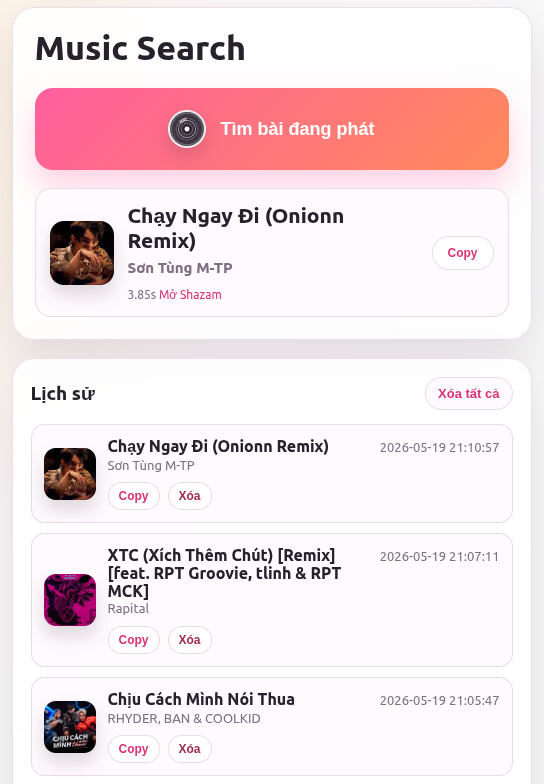
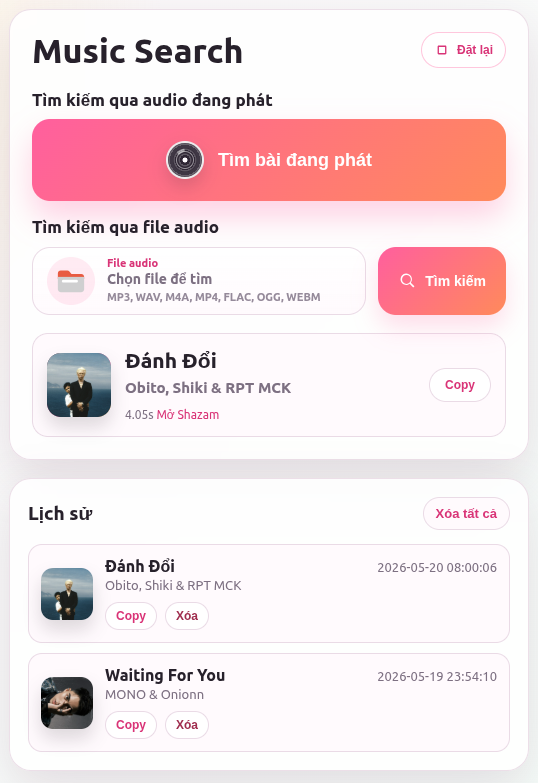
cleanup for audio validation flow

diff --git a/web/app.js b/web/app.js
@@ -18,8 +18,7 @@ const historyEl = document.querySelector("#history");
 const clearButton = document.querySelector("#clearButton");
 
 const PREVIEW_SECONDS = 10;
-const MIN_SELECTION_SECONDS = 3;
-const MIN_UPLOAD_SECONDS = 3;
+const MIN_AUDIO_SECONDS = 3;
 const MAX_UPLOAD_BYTES = 50 * 1024 * 1024;
 const ALLOWED_UPLOAD_EXTENSIONS = new Set(["mp3", "wav", "m4a", "mp4", "flac", "ogg", "webm"]);
 const ALLOWED_UPLOAD_TYPES = new Set([
@@ -38,6 +37,15 @@ const ALLOWED_UPLOAD_TYPES = new Set([
   "video/webm",
   "application/ogg",
 ]);
+const ERROR_MESSAGES = {
+  no_audio_playing: "Không có audio đang phát. Mở nhạc hoặc video rồi thử lại.",
+  recognition_busy: "Đang có lượt nhận diện khác chạy. Chờ lượt hiện tại kết thúc rồi thử lại.",
+  file_too_large: "File audio quá lớn, tối đa 50MB.",
+  unsupported_upload_type: "Chỉ hỗ trợ file MP3, WAV, M4A, MP4, FLAC, OGG hoặc WEBM.",
+  unsupported_audio_file: "Định dạng file không đọc được. Thử file MP3, WAV, M4A, MP4, FLAC, OGG hoặc WEBM.",
+  audio_too_short: "File audio quá ngắn. Cần tối thiểu 3 giây để nhận diện.",
+  no_audio_stream: "Không tìm thấy audio trong file.",
+};
 const INITIAL_RESULT_HTML = `<p class="muted">Bấm nút để nghe audio hệ thống, hoặc chọn file audio để nhận diện.</p>`;
 const PLAY_ICON_PATH = "M8 5.8c0-.8.9-1.3 1.6-.9l8.2 5.2c.7.4.7 1.4 0 1.8l-8.2 5.2c-.7.4-1.6-.1-1.6-.9V5.8Z";
 const STOP_ICON_PATH = "M7.2 6.2c0-.7.5-1.2 1.2-1.2h1.8c.7 0 1.2.5 1.2 1.2v11.6c0 .7-.5 1.2-1.2 1.2H8.4c-.7 0-1.2-.5-1.2-1.2V6.2Zm5.4 0c0-.7.5-1.2 1.2-1.2h1.8c.7 0 1.2.5 1.2 1.2v11.6c0 .7-.5 1.2-1.2 1.2h-1.8c-.7 0-1.2-.5-1.2-1.2V6.2Z";
@@ -50,7 +58,6 @@ let selectionEnd = PREVIEW_SECONDS;
 let waveformPeaks = [];
 let activeWaveformDrag = "";
 let playbackFrame = 0;
-let selectedFileError = null;
 
 function escapeHtml(value) {
   return String(value ?? "")
@@ -65,25 +72,11 @@ function userErrorMessage(error) {
   const message = String(error?.error || error?.message || error || "");
   const code = String(error?.code || "");
   const lowered = message.toLowerCase();
-  if (code === "no_audio_playing") {
-    return "Không có audio đang phát. Mở nhạc hoặc video rồi thử lại.";
+
+  if (ERROR_MESSAGES[code]) {
+    return message || ERROR_MESSAGES[code];
   }
-  if (code === "recognition_busy") {
-    return "Đang có lượt nhận diện khác chạy. Chờ lượt hiện tại kết thúc rồi thử lại.";
-  }
-  if (code === "file_too_large") {
-    return "File audio quá lớn, tối đa 50MB.";
-  }
-  if (code === "unsupported_upload_type") {
-    return "Chỉ hỗ trợ file MP3, WAV, M4A, MP4, FLAC, OGG hoặc WEBM.";
-  }
-  if (code === "unsupported_audio_file") {
-    return "Định dạng file không đọc được. Thử file MP3, WAV, M4A, MP4, FLAC, OGG hoặc WEBM.";
-  }
-  if (code === "audio_too_short") {
-    return "File audio quá ngắn. Cần tối thiểu 3 giây để nhận diện.";
-  }
-  if (code === "no_audio_stream" || lowered.includes("does not contain any stream")) {
+  if (lowered.includes("does not contain any stream")) {
     return "Không tìm thấy audio trong file.";
   }
   if (lowered.includes("invalid data found when processing input")) {
@@ -175,7 +168,7 @@ function selectedStartSeconds() {
 }
 
 function selectedEndSeconds() {
-  return Math.max(selectedStartSeconds() + MIN_SELECTION_SECONDS, selectionEnd);
+  return Math.max(selectedStartSeconds() + MIN_AUDIO_SECONDS, selectionEnd);
 }
 
 function updatePreviewRangeText() {
@@ -218,7 +211,6 @@ function resetPreview() {
   selectionStart = 0;
   selectionEnd = PREVIEW_SECONDS;
   waveformPeaks = [];
-  selectedFileError = null;
   updatePreviewRangeText();
   drawWaveform();
   filePreview.classList.add("is-hidden");
@@ -233,11 +225,10 @@ function resetSelectedFile() {
 }
 
 function rejectSelectedFile(error) {
-  resetPreview();
   audioFile.value = "";
+  resetPreview();
   fileName.textContent = "Chọn file để tìm";
   previewReset.classList.add("is-hidden");
-  selectedFileError = error;
   renderResult({ ok: false, ...error });
 }
 
@@ -247,9 +238,9 @@ function loadFilePreview(file) {
     return;
   }
 
-  selectedFileError = validateSelectedFile(file);
-  if (selectedFileError) {
-    rejectSelectedFile(selectedFileError);
+  const fileError = validateSelectedFile(file);
+  if (fileError) {
+    rejectSelectedFile(fileError);
     return;
   }
 
@@ -265,9 +256,9 @@ function loadFilePreview(file) {
 }
 
 function clampSelection() {
-  const duration = Math.max(MIN_SELECTION_SECONDS, previewDuration || PREVIEW_SECONDS);
-  selectionStart = Math.max(0, Math.min(selectionStart, duration - MIN_SELECTION_SECONDS));
-  selectionEnd = Math.max(selectionStart + MIN_SELECTION_SECONDS, Math.min(selectionEnd, duration));
+  const duration = Math.max(MIN_AUDIO_SECONDS, previewDuration || PREVIEW_SECONDS);
+  selectionStart = Math.max(0, Math.min(selectionStart, duration - MIN_AUDIO_SECONDS));
+  selectionEnd = Math.max(selectionStart + MIN_AUDIO_SECONDS, Math.min(selectionEnd, duration));
 }
 
 function clampPlayhead() {
@@ -295,9 +286,9 @@ function canvasPointToSeconds(event) {
 function setSelectionFromPointer(event) {
   const seconds = canvasPointToSeconds(event);
   if (activeWaveformDrag === "start") {
-    selectionStart = Math.min(seconds, selectionEnd - MIN_SELECTION_SECONDS);
+    selectionStart = Math.min(seconds, selectionEnd - MIN_AUDIO_SECONDS);
   } else if (activeWaveformDrag === "end") {
-    selectionEnd = Math.max(seconds, selectionStart + MIN_SELECTION_SECONDS);
+    selectionEnd = Math.max(seconds, selectionStart + MIN_AUDIO_SECONDS);
   } else if (activeWaveformDrag === "move") {
     const width = selectionEnd - selectionStart;
     selectionStart = seconds - width / 2;
@@ -393,7 +384,7 @@ async function analyzeWaveform(file) {
     const audioBuffer = await context.decodeAudioData(buffer);
     previewDuration = audioBuffer.duration || previewDuration;
     selectionStart = 0;
-    selectionEnd = Math.min(PREVIEW_SECONDS, Math.max(MIN_SELECTION_SECONDS, previewDuration));
+    selectionEnd = Math.min(PREVIEW_SECONDS, Math.max(MIN_AUDIO_SECONDS, previewDuration));
 
     const data = audioBuffer.getChannelData(0);
     const peakCount = 180;
@@ -612,13 +603,13 @@ async function recognize() {
 async function recognizeFile() {
   const file = audioFile.files?.[0];
   if (!file) {
-    resultEl.innerHTML = `<p class="muted">Chọn một file audio trước khi nhận diện.</p>`;
+    renderWarning("Chọn một file audio trước khi nhận diện.");
     return;
   }
 
-  selectedFileError = selectedFileError || validateSelectedFile(file);
-  if (selectedFileError) {
-    renderResult({ ok: false, ...selectedFileError });
+  const fileError = validateSelectedFile(file);
+  if (fileError) {
+    rejectSelectedFile(fileError);
     return;
   }
 
@@ -659,7 +650,7 @@ audioFile.addEventListener("change", () => {
 previewAudio.addEventListener("loadedmetadata", () => {
   const duration = Number.isFinite(previewAudio.duration) ? previewAudio.duration : 0;
   previewDuration = duration || previewDuration;
-  if (duration > 0 && duration < MIN_UPLOAD_SECONDS) {
+  if (duration > 0 && duration < MIN_AUDIO_SECONDS) {
     rejectSelectedFile({
       code: "audio_too_short",
       error: "File audio quá ngắn. Cần tối thiểu 3 giây để nhận diện.",
@@ -667,14 +658,14 @@ previewAudio.addEventListener("loadedmetadata", () => {
     return;
   }
   selectionStart = 0;
-  selectionEnd = Math.min(PREVIEW_SECONDS, Math.max(MIN_SELECTION_SECONDS, previewDuration || PREVIEW_SECONDS));
+  selectionEnd = Math.min(PREVIEW_SECONDS, Math.max(MIN_AUDIO_SECONDS, previewDuration || PREVIEW_SECONDS));
   clampSelection();
   previewAudio.currentTime = selectionStart;
   updatePreviewRangeText();
   drawWaveform();
 });
 previewAudio.addEventListener("error", () => {
-  if (!audioFile.files?.[0] || selectedFileError) {
+  if (!audioFile.files?.[0]) {
     return;
   }
   rejectSelectedFile({

diff --git a/web/styles.css b/web/styles.css
@@ -1,14 +1,10 @@
 :root {
   color-scheme: light;
-  --bg: #fff7fb;
   --ink: #27212b;
   --muted: #7d7082;
   --line: #eadbe6;
-  --panel: #ffffff;
   --rose: #ff5f9e;
   --rose-dark: #d93477;
-  --mint: #86dfc4;
-  --sun: #ffd166;
   --warning-bg: #fff4c7;
   --warning-line: #f1c75b;
   --warning-ink: #7a4c00;

diff --git a/app.py b/app.py
@@ -23,7 +23,7 @@ RATE = 44100
 CHANNELS = 1
 BITS = 32
 MAX_UPLOAD_BYTES = 50 * 1024 * 1024
-MIN_UPLOAD_SECONDS = 3
+MIN_AUDIO_SECONDS = 3
 ALLOWED_UPLOAD_EXTENSIONS = {".mp3", ".wav", ".m4a", ".mp4", ".flac", ".ogg", ".webm"}
 ALLOWED_UPLOAD_TYPES = {
     "audio/mpeg",
@@ -73,16 +73,12 @@ def run_text(args):
 def user_error_message(error):
     message = str(error)
     lowered = message.lower()
-    if "dang nhan dien roi" in lowered:
-        return "Đang có lượt nhận diện khác chạy. Chờ lượt hiện tại kết thúc rồi thử lại."
     if "does not contain any stream" in lowered:
         return "Không tìm thấy audio trong file."
     if "invalid data found when processing input" in lowered:
         return "Định dạng file không đọc được. Thử file MP3, WAV, M4A, MP4, FLAC, OGG hoặc WEBM."
     if "file audio khong co du lieu am thanh doc duoc" in lowered:
         return "File không có audio đọc được."
-    if "khong co audio dang phat" in lowered:
-        return "Không có audio đang phát. Mở nhạc hoặc video rồi thử lại."
     return message
 
 
@@ -142,17 +138,6 @@ def detect_device():
             status=409,
             code="no_audio_playing",
         )
-
-    default = run_text(["pactl", "get-default-sink"])
-    default_sink = default.stdout.strip() if default.returncode == 0 else ""
-    if default_sink:
-        for sink in sinks:
-            if sink.get("name") == default_sink and sink.get("monitor"):
-                return sink["monitor"]
-
-    for sink in sinks:
-        if sink.get("monitor"):
-            return sink["monitor"]
 
     raise AppError(
         "Không tìm thấy thiết bị audio để thu âm.",
@@ -344,7 +329,6 @@ def recognize_track():
         device = detect_device()
         pcm = b""
         prev_mark = 0
-        result = None
 
         for mark in SYSTEM_ATTEMPT_MARKS:
             chunk_seconds = mark - prev_mark
@@ -382,14 +366,15 @@ def recognize_uploaded_file(audio_bytes, filename="", start_seconds=0, end_secon
 
     try:
         started = time.time()
-        requested_seconds = max(MIN_UPLOAD_SECONDS, math.ceil((end_seconds or start_seconds + DEFAULT_UPLOAD_SECONDS) - start_seconds))
+        requested_range = (end_seconds or start_seconds + DEFAULT_UPLOAD_SECONDS) - start_seconds
+        requested_seconds = max(MIN_AUDIO_SECONDS, math.ceil(requested_range))
         pcm = decode_audio_file(audio_bytes, requested_seconds, start_seconds)
         bytes_per_second = RATE * CHANNELS * (BITS // 8)
         if not pcm:
             raise AppError("File không có audio đọc được.", status=415, code="empty_audio")
 
         final_seconds = max(1, math.ceil(len(pcm) / bytes_per_second))
-        if final_seconds < MIN_UPLOAD_SECONDS:
+        if final_seconds < MIN_AUDIO_SECONDS:
             raise AppError(
                 "File audio quá ngắn. Cần tối thiểu 3 giây để nhận diện.",
                 status=422,
@@ -436,7 +421,10 @@ class Handler(BaseHTTPRequestHandler):
             payload = {"ok": False, "error": str(error), "code": error.code}
             self.send_json(error.status, payload)
             return
-        self.send_json(500, {"ok": False, "error": user_error_message(error), "code": "server_error"})
+        self.send_json(
+            500,
+            {"ok": False, "error": user_error_message(error), "code": "server_error"},
+        )
 
     def do_GET(self):
         parsed = urllib.parse.urlparse(self.path)

diff --git a/README.md b/README.md
@@ -53,4 +53,4 @@ Sau đó mở trình duyệt:
 http://127.0.0.1:8765
 ```
 
-bấm nút **Tìm bài đang phát** để nghe audio hệ thống, hoặc chọn file audio rồi bấm **Nhận diện file audio**.
+bấm nút **Tìm bài đang phát** để nghe audio hệ thống, hoặc chọn file audio rồi bấm **Tìm kiếm**.
